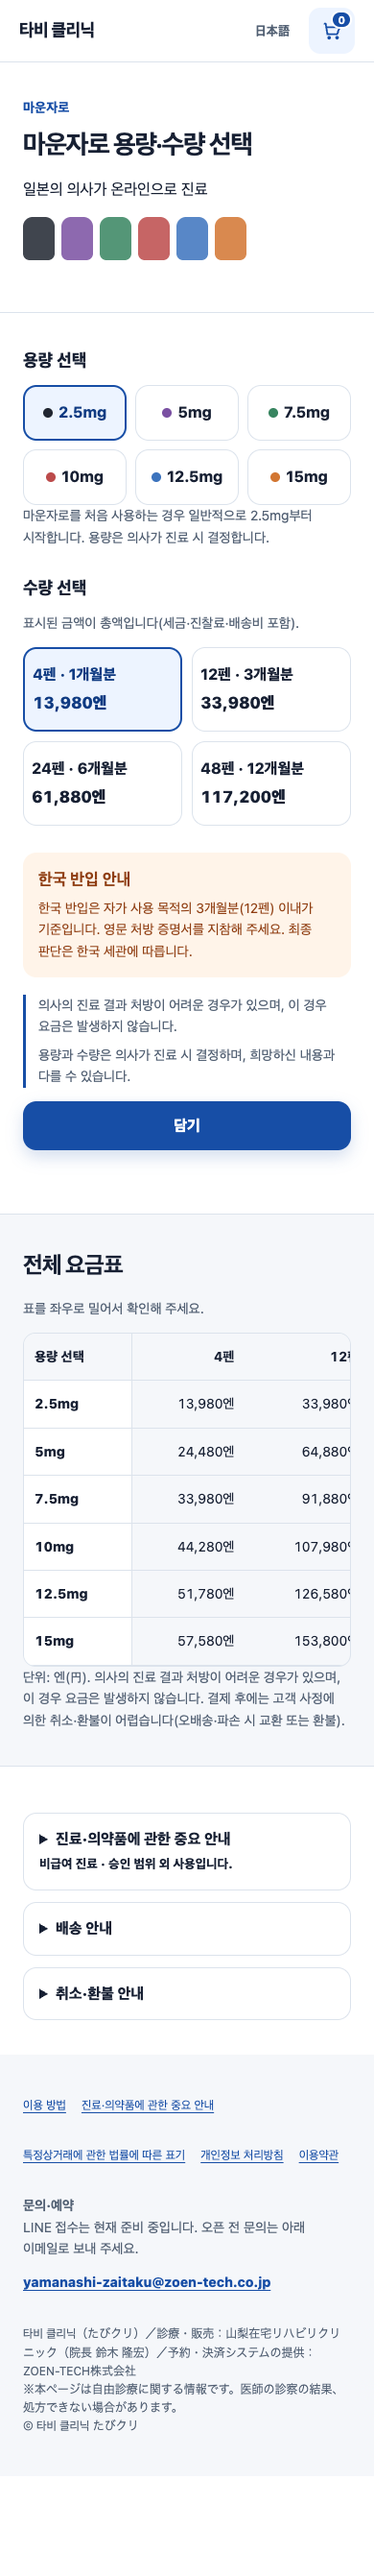
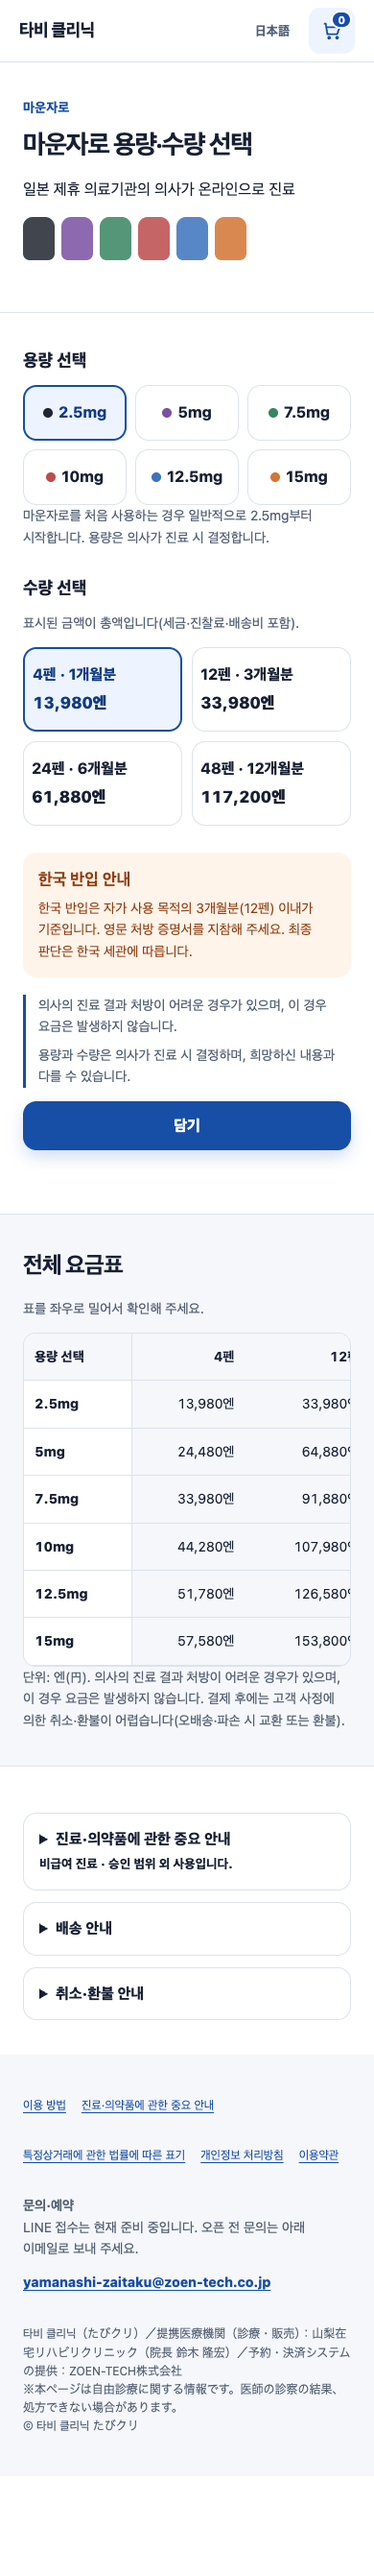
wip: たびクリはプラットフォーム・医療機関は提携先として表示（ヒーローとサービス案内から医院名を外す）
Claude-Session: https://claude.ai/code/session_01Woq8ACZhkQYMQKmAuGwLi9

diff --git a/dist/assets/app.js b/dist/assets/app.js
@@ -87,7 +87,7 @@
         <a href="${href("s8")}">${escape(copy.meta.s8)}</a>
         <a href="${href("s9")}">${escape(copy.meta.s9)}</a>
       </nav>${contact}
-      <div lang="ja">${copy.reviewed.footerHtml}</div></footer>`;
+      <div lang="ja"${attr("reviewed.footerHtml")}>${copy.reviewed.footerHtml}</div></footer>`;
     }
 
     function medical(open = false) {
@@ -122,8 +122,8 @@
 
     function home() {
       const first = prices[0];
-      return `<main id="main"><section class="section hero"><div class="clinic-name"><span lang="ja">${escape(copy.reviewed.clinic)}</span>${lang === "ko" ? ui("clinicReading", "small", ' lang="ko"') : ""}</div><div class="eyebrow">${ui("clinicEyebrow")}</div><h1>${escape(copy.reviewed.heroTitle)}</h1><p class="doctor-line">${ui("doctorOnline")}</p><p class="hero-copy">${escape(copy.reviewed.heroBody)}</p><ul class="trust-list"><li>${escape(copy.ui.trust1)}</li><li>${escape(copy.ui.trust2)}</li><li>${escape(copy.ui.trust3)}</li></ul><a class="primary" href="${href("s2")}" data-event="view-prices">${escape(copy.ui.priceView)} ${icon("arrow")}</a></section>
-        <section class="section"><h2>${escape(copy.reviewed.servicesTitle)}</h2><ul class="service-list">${copy.reviewed.services.map(item => `<li class="service-card"><h3>${escape(item.title)}</h3><p>${escape(item.body)}</p></li>`).join("")}</ul></section>
+      return `<main id="main"><section class="section hero"><div class="clinic-name">${escape(brand)}</div><div class="eyebrow">${ui("clinicEyebrow")}</div><h1>${escape(copy.reviewed.heroTitle)}</h1><p class="doctor-line">${ui("doctorOnline")}</p><p class="hero-copy">${escape(copy.reviewed.heroBody)}</p><ul class="trust-list"><li>${escape(copy.ui.trust1)}</li><li>${escape(copy.ui.trust2)}</li><li>${escape(copy.ui.trust3)}</li></ul><a class="primary" href="${href("s2")}" data-event="view-prices">${escape(copy.ui.priceView)} ${icon("arrow")}</a></section>
+        <section class="section"><h2>${escape(copy.reviewed.servicesTitle)}</h2><ul class="service-list">${copy.reviewed.services.map((item, index) => `<li class="service-card"><h3>${escape(item.title)}</h3><p${attr(`reviewed.services.${index}.body`)}>${escape(item.body)}</p></li>`).join("")}</ul></section>
         <section class="section soft"><h2>${ui("catalogTitle")}</h2><article class="product-card">${doseArt()}<h3><a class="product-link" href="${href("s2")}" data-event="view-product">${escape(copy.ui.product)}</a></h3><p class="subtle">${escape(copy.ui.doseRange)}</p><p>${escape(first[0])} · 4${escape(copy.ui.pens)} ${money(first[1])}</p><p class="subtle">${escape(copy.ui.included)}</p>${ui("trust1", "p", ' class="product-assurance"')}${ui("noticeSummary", "p", ' class="product-notice"')}<a href="${href("s6")}">${ui("noticeLink")}</a></article></section>
         <section class="section"><h2>${escape(copy.reviewed.flowTitle)}</h2><ol class="flow-list">${copy.reviewed.flow.map(item => `<li>${escape(item)}</li>`).join("")}</ol><p><a href="${href("s5")}">${escape(copy.ui.moreGuide)}</a></p></section>
         <section class="section">${importNotice()}${medical()}</section>

diff --git a/site/src/app.js b/site/src/app.js
@@ -87,7 +87,7 @@
         <a href="${href("s8")}">${escape(copy.meta.s8)}</a>
         <a href="${href("s9")}">${escape(copy.meta.s9)}</a>
       </nav>${contact}
-      <div lang="ja">${copy.reviewed.footerHtml}</div></footer>`;
+      <div lang="ja"${attr("reviewed.footerHtml")}>${copy.reviewed.footerHtml}</div></footer>`;
     }
 
     function medical(open = false) {
@@ -122,8 +122,8 @@
 
     function home() {
       const first = prices[0];
-      return `<main id="main"><section class="section hero"><div class="clinic-name"><span lang="ja">${escape(copy.reviewed.clinic)}</span>${lang === "ko" ? ui("clinicReading", "small", ' lang="ko"') : ""}</div><div class="eyebrow">${ui("clinicEyebrow")}</div><h1>${escape(copy.reviewed.heroTitle)}</h1><p class="doctor-line">${ui("doctorOnline")}</p><p class="hero-copy">${escape(copy.reviewed.heroBody)}</p><ul class="trust-list"><li>${escape(copy.ui.trust1)}</li><li>${escape(copy.ui.trust2)}</li><li>${escape(copy.ui.trust3)}</li></ul><a class="primary" href="${href("s2")}" data-event="view-prices">${escape(copy.ui.priceView)} ${icon("arrow")}</a></section>
-        <section class="section"><h2>${escape(copy.reviewed.servicesTitle)}</h2><ul class="service-list">${copy.reviewed.services.map(item => `<li class="service-card"><h3>${escape(item.title)}</h3><p>${escape(item.body)}</p></li>`).join("")}</ul></section>
+      return `<main id="main"><section class="section hero"><div class="clinic-name">${escape(brand)}</div><div class="eyebrow">${ui("clinicEyebrow")}</div><h1>${escape(copy.reviewed.heroTitle)}</h1><p class="doctor-line">${ui("doctorOnline")}</p><p class="hero-copy">${escape(copy.reviewed.heroBody)}</p><ul class="trust-list"><li>${escape(copy.ui.trust1)}</li><li>${escape(copy.ui.trust2)}</li><li>${escape(copy.ui.trust3)}</li></ul><a class="primary" href="${href("s2")}" data-event="view-prices">${escape(copy.ui.priceView)} ${icon("arrow")}</a></section>
+        <section class="section"><h2>${escape(copy.reviewed.servicesTitle)}</h2><ul class="service-list">${copy.reviewed.services.map((item, index) => `<li class="service-card"><h3>${escape(item.title)}</h3><p${attr(`reviewed.services.${index}.body`)}>${escape(item.body)}</p></li>`).join("")}</ul></section>
         <section class="section soft"><h2>${ui("catalogTitle")}</h2><article class="product-card">${doseArt()}<h3><a class="product-link" href="${href("s2")}" data-event="view-product">${escape(copy.ui.product)}</a></h3><p class="subtle">${escape(copy.ui.doseRange)}</p><p>${escape(first[0])} · 4${escape(copy.ui.pens)} ${money(first[1])}</p><p class="subtle">${escape(copy.ui.included)}</p>${ui("trust1", "p", ' class="product-assurance"')}${ui("noticeSummary", "p", ' class="product-notice"')}<a href="${href("s6")}">${ui("noticeLink")}</a></article></section>
         <section class="section"><h2>${escape(copy.reviewed.flowTitle)}</h2><ol class="flow-list">${copy.reviewed.flow.map(item => `<li>${escape(item)}</li>`).join("")}</ol><p><a href="${href("s5")}">${escape(copy.ui.moreGuide)}</a></p></section>
         <section class="section">${importNotice()}${medical()}</section>

diff --git a/docs/requirements.md b/docs/requirements.md
@@ -173,6 +173,12 @@
 - **ファーストビューはクリニックらしくする。** 参考はDMMオンラインクリニック等の日本のオンライン診療サイトの型（白地、医療機関名・医師が診察することが一目で分かる見出し、安心材料を短い項目で並べる、予約への主ボタン1つ）。人物写真・効果の訴求・No.1表記は使わない（2.2）。医療機関名「山梨在宅リハビリクリニック」と「日本の医師がオンラインで診察」をファーストビュー内に出す
 - 流れは「容量・本数をポチポチ選ぶ→合計金額が出る→確認画面→LINE登録（友だち追加）へ」
 
+### 6.1.2 決定（2026-11-17 平川さん）たびクリはプラットフォーム、医療機関は提携先
+- たびクリはプラットフォームのブランドとして見せる。山梨在宅リハビリクリニックは「提携医療機関」であり、ファーストビューやサービス案内で前面に出さない（6.1.1の「医療機関名をファーストビュー内に出す」を取り消す）
+- 医療機関名を出すのは、法令上必要な場所だけ：特定商取引法に基づく表記（販売事業者・運営責任者）、フッターの表記（「提携医療機関（診療・販売）」として）、重要事項
+- 決済（Square）の名義と特商法の販売事業者は引き続き同院。Squareへの説明（同院が販売事業者）とは食い違わない
+- 重要事項の文中の「当院／당원」は、プラットフォームとしての見せ方に合わせた言い換えを別途レビューにかける
+
 ### 6.2 共通の決まり
 - スマホ前提（基準幅390px、最小360px）。PCは中央に最大480〜560pxの1列で表示し、左右は余白（韓国のアプリ型サイトの見せ方）
 - 書体: Pretendard（韓国語・英数字）、日本語は Pretendard JP、無い環境では Noto Sans KR／Noto Sans JP。サイト内に置いて読み込む（外部の配信元に頼らない）
